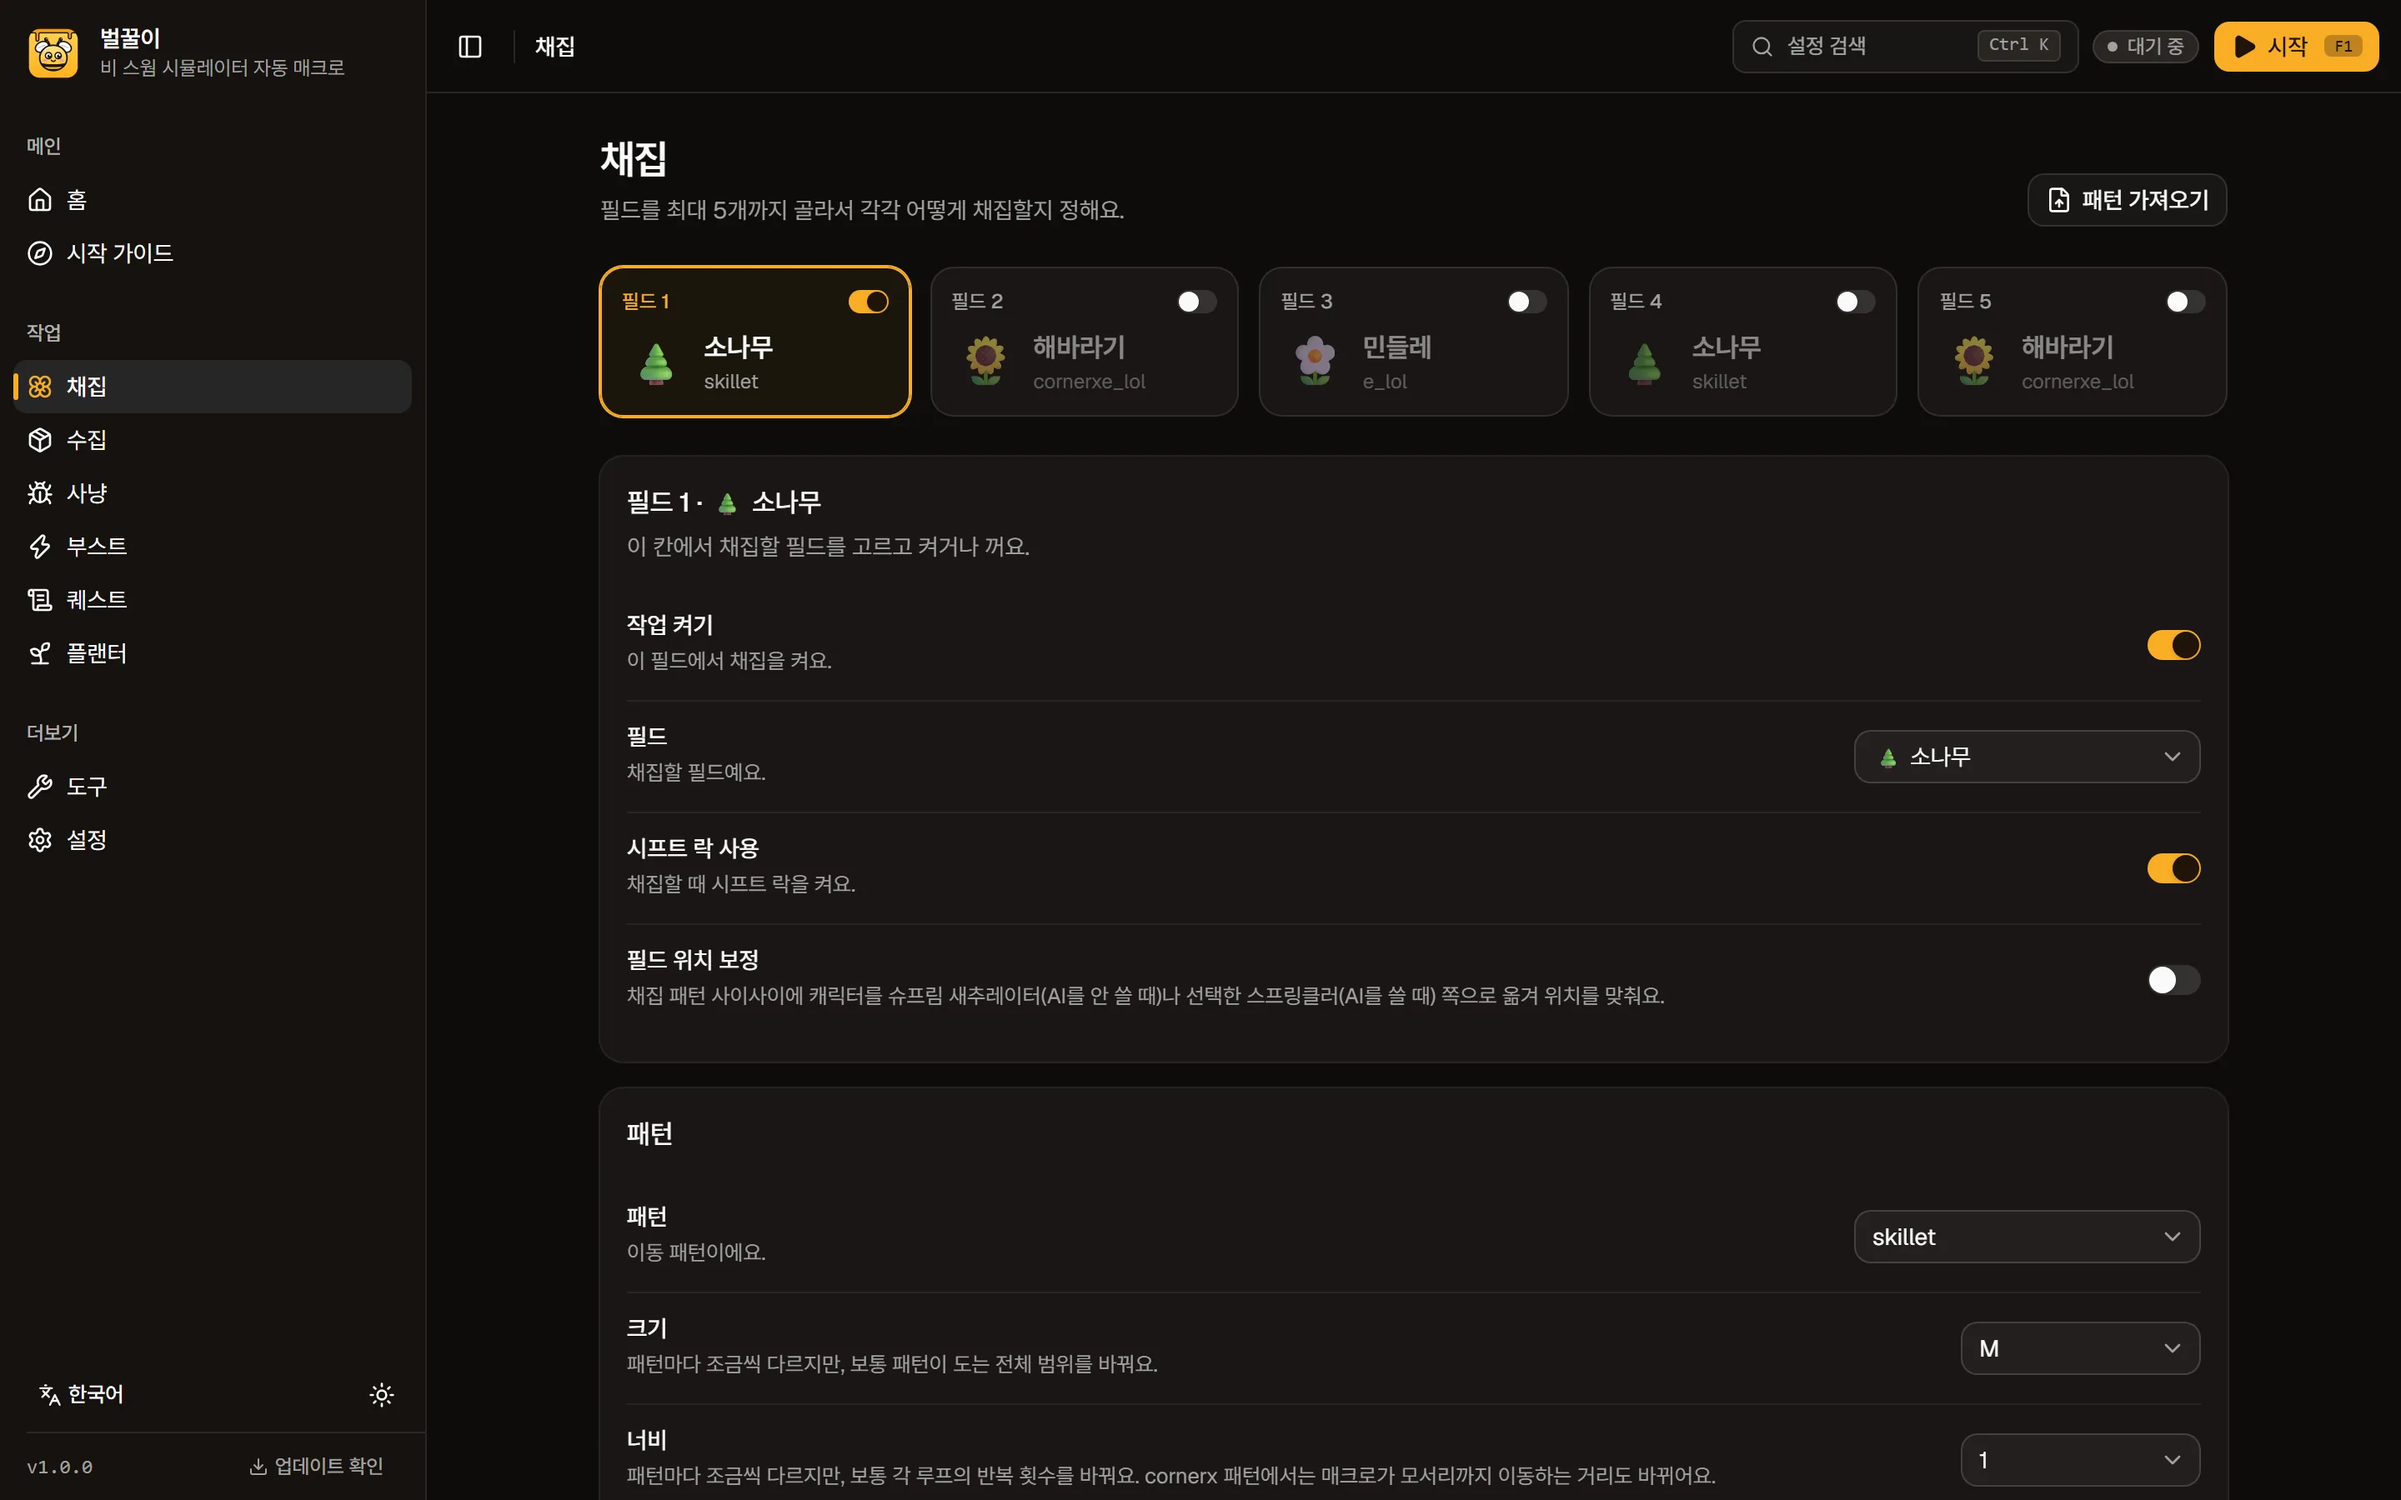
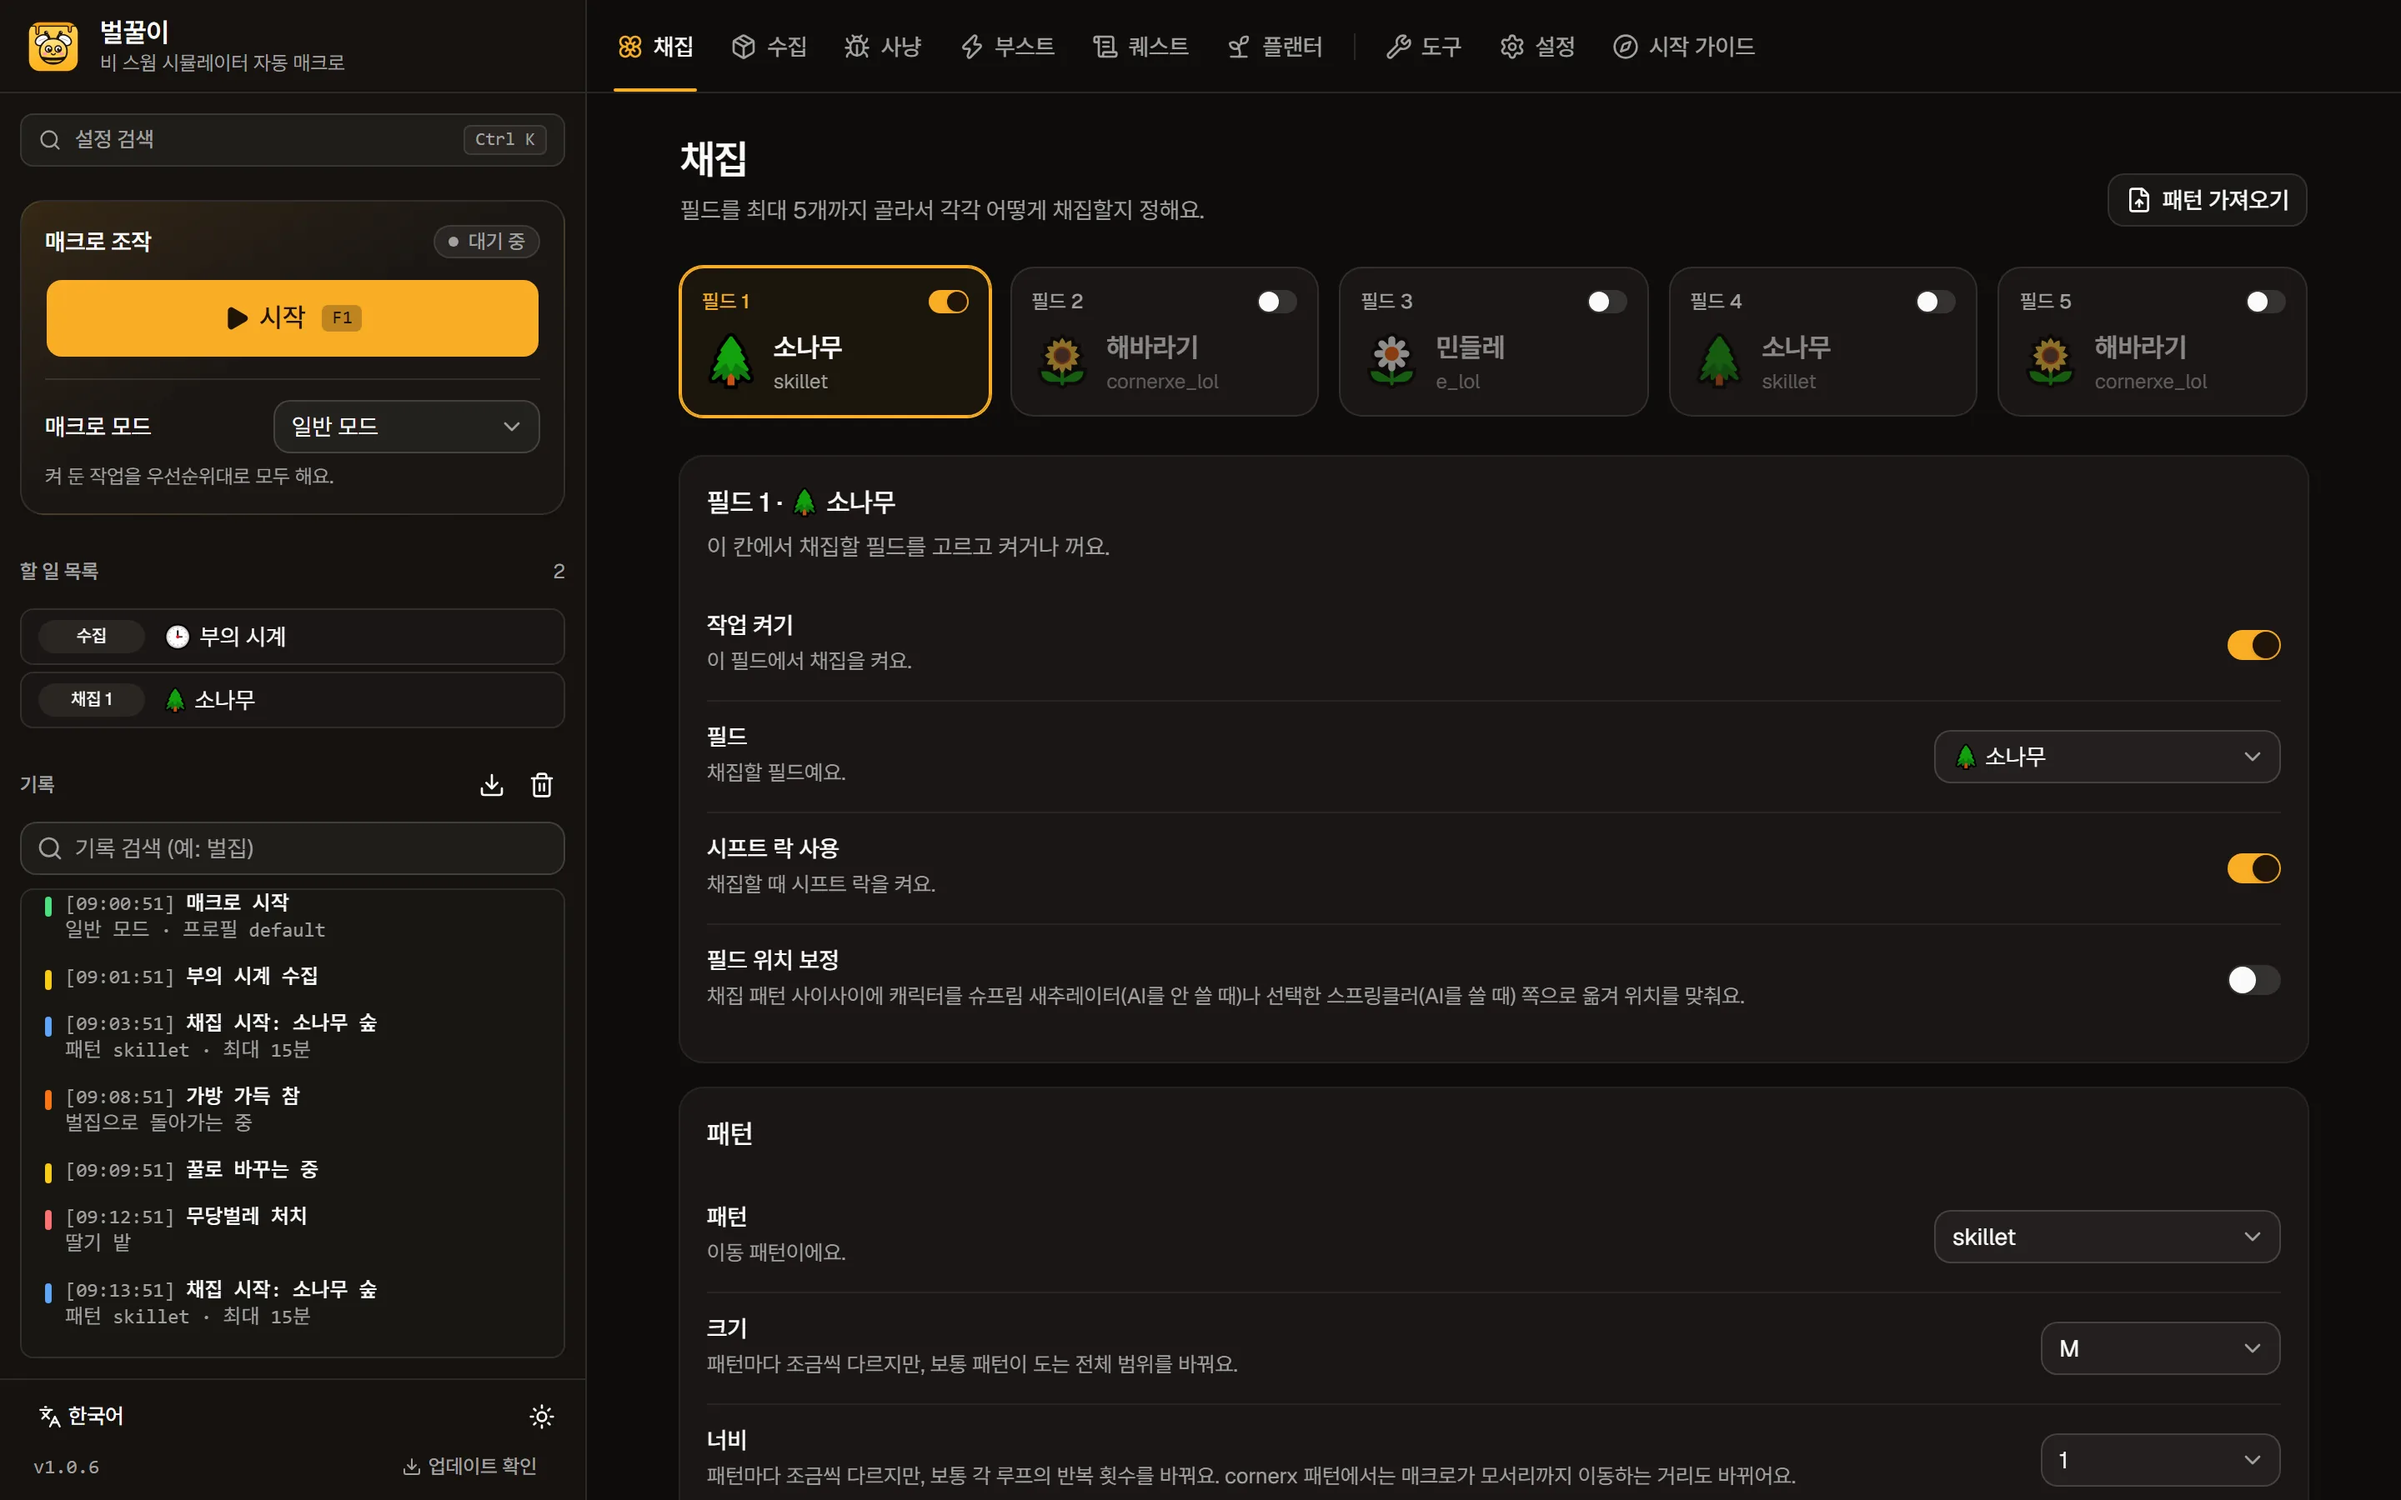
Site: re-shoot the app screenshots in the cockpit layout
The landing page and share card still showed the old page sidebar. The
screenshot script now serves the theme through the settings the app reads
(so the light shot is light), drops the dev-mode label from the control
panel, and opens Collect for the first shot since Home shows Gather in a
wide window. The guide caption no longer promises a permissions step,
which the Windows guide doesn't have.

diff --git a/site/index.html b/site/index.html
@@ -858,8 +858,8 @@ footer a:hover { color: var(--honey); }
     "alt.home": "Beolkkuri Home screen with the start button, task list and live log",
   }
   const CAPTIONS = {
-    ko: ["시작 버튼, 할 일 목록, 실시간 기록이 한 화면에 있어요.", "필드는 5곳까지 고르고, 패턴과 시간을 정해요.", "처음이라면 시작 가이드가 권한부터 확인해 줘요.", "⌘K로 설정 246개 중 원하는 걸 바로 찾아요.", "밤에는 다크, 낮에는 라이트."],
-    en: ["Start button, task list and a live log on one screen.", "Pick up to five fields, then set patterns and times.", "First time? Getting Started checks your permissions first.", "⌘K finds any of the 246 settings.", "Dark at night, light by day."],
+    ko: ["시작 버튼, 할 일 목록, 실시간 기록이 한 화면에 있어요.", "필드는 5곳까지 고르고, 패턴과 시간을 정해요.", "처음이라면 시작 가이드가 할 일을 하나씩 짚어 줘요.", "⌘K로 설정 246개 중 원하는 걸 바로 찾아요.", "밤에는 다크, 낮에는 라이트."],
+    en: ["Start button, task list and a live log on one screen.", "Pick up to five fields, then set patterns and times.", "First time? Getting Started walks you through it step by step.", "⌘K finds any of the 246 settings.", "Dark at night, light by day."],
   }
   const TAPE = {
     ko: [["채집", "꿀 변환", "디스펜서", "부의 시계", "몹 사냥", "비셔스 비"], ["퀘스트", "플랜터", "스티커 프린터", "디스코드 리포트", "자동 재접속", "AI 토큰 채집"]],

diff --git a/CLAUDE.md b/CLAUDE.md
@@ -207,8 +207,10 @@ Written from scratch in C# (no NSIS/Inno), compiled with the `csc.exe` that ship
 - Check it: `cd scripts/site && npm install && node check-site.mjs out`. This screenshots each section at desktop (1440), mobile (390) and English, and prints horizontal overflow and JS errors. Both should be 0/none.
 - Refresh the app screenshots:
   1. Run the dev UI plus backend.
-  2. `node scripts/site/shoot-app.mjs <dir>` (fake running state and logs, 2x).
+  2. `node scripts/site/shoot-app.mjs <dir>` (fake running state and logs, 2x). It answers `loadAllSettings` itself with the real settings plus `ui_theme`/`ui_language`, because the app takes its theme from the saved settings, not localStorage. A wide window shows Gather for `#/home`, so the "home" shot opens Collect.
   3. `python scripts/site/to-webp.py <dir> site/assets`.
+  4. `node scripts/site/render-brand.mjs` to re-render `og.png`, which shows `home.webp`.
+- The headless browser reports Windows, so the shots show the Windows UI (the guide starts with the English OCR step). Keep gallery captions true for both OSes.
 - `site/assets/og.png` (1200×630 share card) and the mascot `site/assets/bee.png` come from the brand pipeline (see Brand rules). Re-render the share card after refreshing `site/assets/home.webp`, since it shows that screenshot.
 - Set `CHROME=/path/to/chrome` if the scripts can't find a browser. On Windows with the sandbox on, Chrome may fail to launch; headless-shell with `pipe: true` worked.
 - Copy rules: no made-up stats or user counts. "Not affiliated with Onett/Roblox" stays in the FAQ and footer.
@@ -255,7 +257,7 @@ The Discord bot prefix is `bee!` (`robin!` still works). Discord Rich Presence i
 
 Done:
 - v1.0.6:
-  - the cockpit layout (see "Window layout"), which replaced the page sidebar. The landing page's app screenshots (`scripts/site/shoot-app.mjs`) still show the sidebar;
+  - the cockpit layout (see "Window layout"), which replaced the page sidebar. The landing page's app screenshots and share card were re-shot in it after the release;
   - the hive claim route (see "Hive claim"), released after checks against a pretend hive row only, not the game.
 - v1.0.5:
   - the start setup (see "Start setup"), asked over the game or in the app before the first start;
